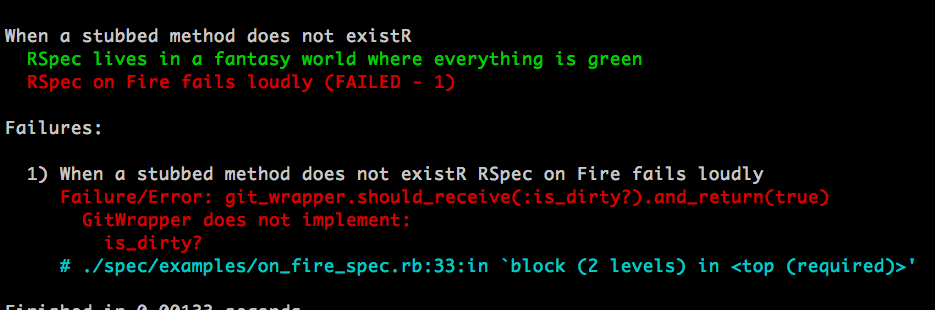
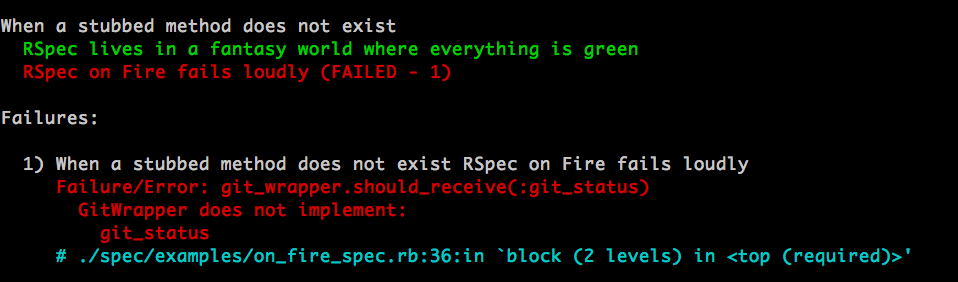
better rspec-fire examples

diff --git a/index.html b/index.html
@@ -67,7 +67,7 @@
     <!-- === begin markdown block =====================================================
 
       generated by markdown 1.0.0 on Ruby 1.9.3 (2013-02-22) [x86_64-darwin12.3.0]
-                on 2013-08-14 15:34:44 +0200 with Markdown engine kramdown (0.14.0)
+                on 2013-08-14 15:45:29 +0200 with Markdown engine kramdown (0.14.0)
                   using options { !to be done! }
   -->
 
@@ -473,11 +473,15 @@ class Git
   end
 
   def status
+    @git_wrapper.git_status
     &quot;*&quot; if @git_wrapper.is_dirty?
   end
 end
 
 class GitWrapper
+  def run_git_status
+  end
+
   def dirty?
   end
 end
@@ -485,15 +489,15 @@ end
 describe &quot;When a stubbed method does not exist&quot; do
 
   it &quot;RSpec lives in a fantasy world where everything is green&quot; do
-    git_wrapper = double(&quot;GitWrapper&quot;)      
-    git_wrapper.should_receive(:is_dirty?).and_return(true)
+    git_wrapper = double(&quot;GitWrapper&quot;, is_dirty?: true)      
+    git_wrapper.should_receive(:git_status)
 
     Git.new(git_wrapper).status
   end 
 
   it &quot;RSpec on Fire fails loudly&quot; do
     git_wrapper = instance_double(&quot;GitWrapper&quot;)      
-    git_wrapper.should_receive(:is_dirty?).and_return(true)
+    git_wrapper.should_receive(:git_status)
 
     Git.new(git_wrapper).status
   end 

diff --git a/slides.html b/slides.html
@@ -67,7 +67,7 @@
     <!-- === begin markdown block =====================================================
 
       generated by markdown 1.0.0 on Ruby 1.9.3 (2013-02-22) [x86_64-darwin12.3.0]
-                on 2013-08-14 15:34:44 +0200 with Markdown engine kramdown (0.14.0)
+                on 2013-08-14 15:45:29 +0200 with Markdown engine kramdown (0.14.0)
                   using options { !to be done! }
   -->
 
@@ -473,11 +473,15 @@ class Git
   end
 
   def status
+    @git_wrapper.git_status
     &quot;*&quot; if @git_wrapper.is_dirty?
   end
 end
 
 class GitWrapper
+  def run_git_status
+  end
+
   def dirty?
   end
 end
@@ -485,15 +489,15 @@ end
 describe &quot;When a stubbed method does not exist&quot; do
 
   it &quot;RSpec lives in a fantasy world where everything is green&quot; do
-    git_wrapper = double(&quot;GitWrapper&quot;)      
-    git_wrapper.should_receive(:is_dirty?).and_return(true)
+    git_wrapper = double(&quot;GitWrapper&quot;, is_dirty?: true)      
+    git_wrapper.should_receive(:git_status)
 
     Git.new(git_wrapper).status
   end 
 
   it &quot;RSpec on Fire fails loudly&quot; do
     git_wrapper = instance_double(&quot;GitWrapper&quot;)      
-    git_wrapper.should_receive(:is_dirty?).and_return(true)
+    git_wrapper.should_receive(:git_status)
 
     Git.new(git_wrapper).status
   end 
